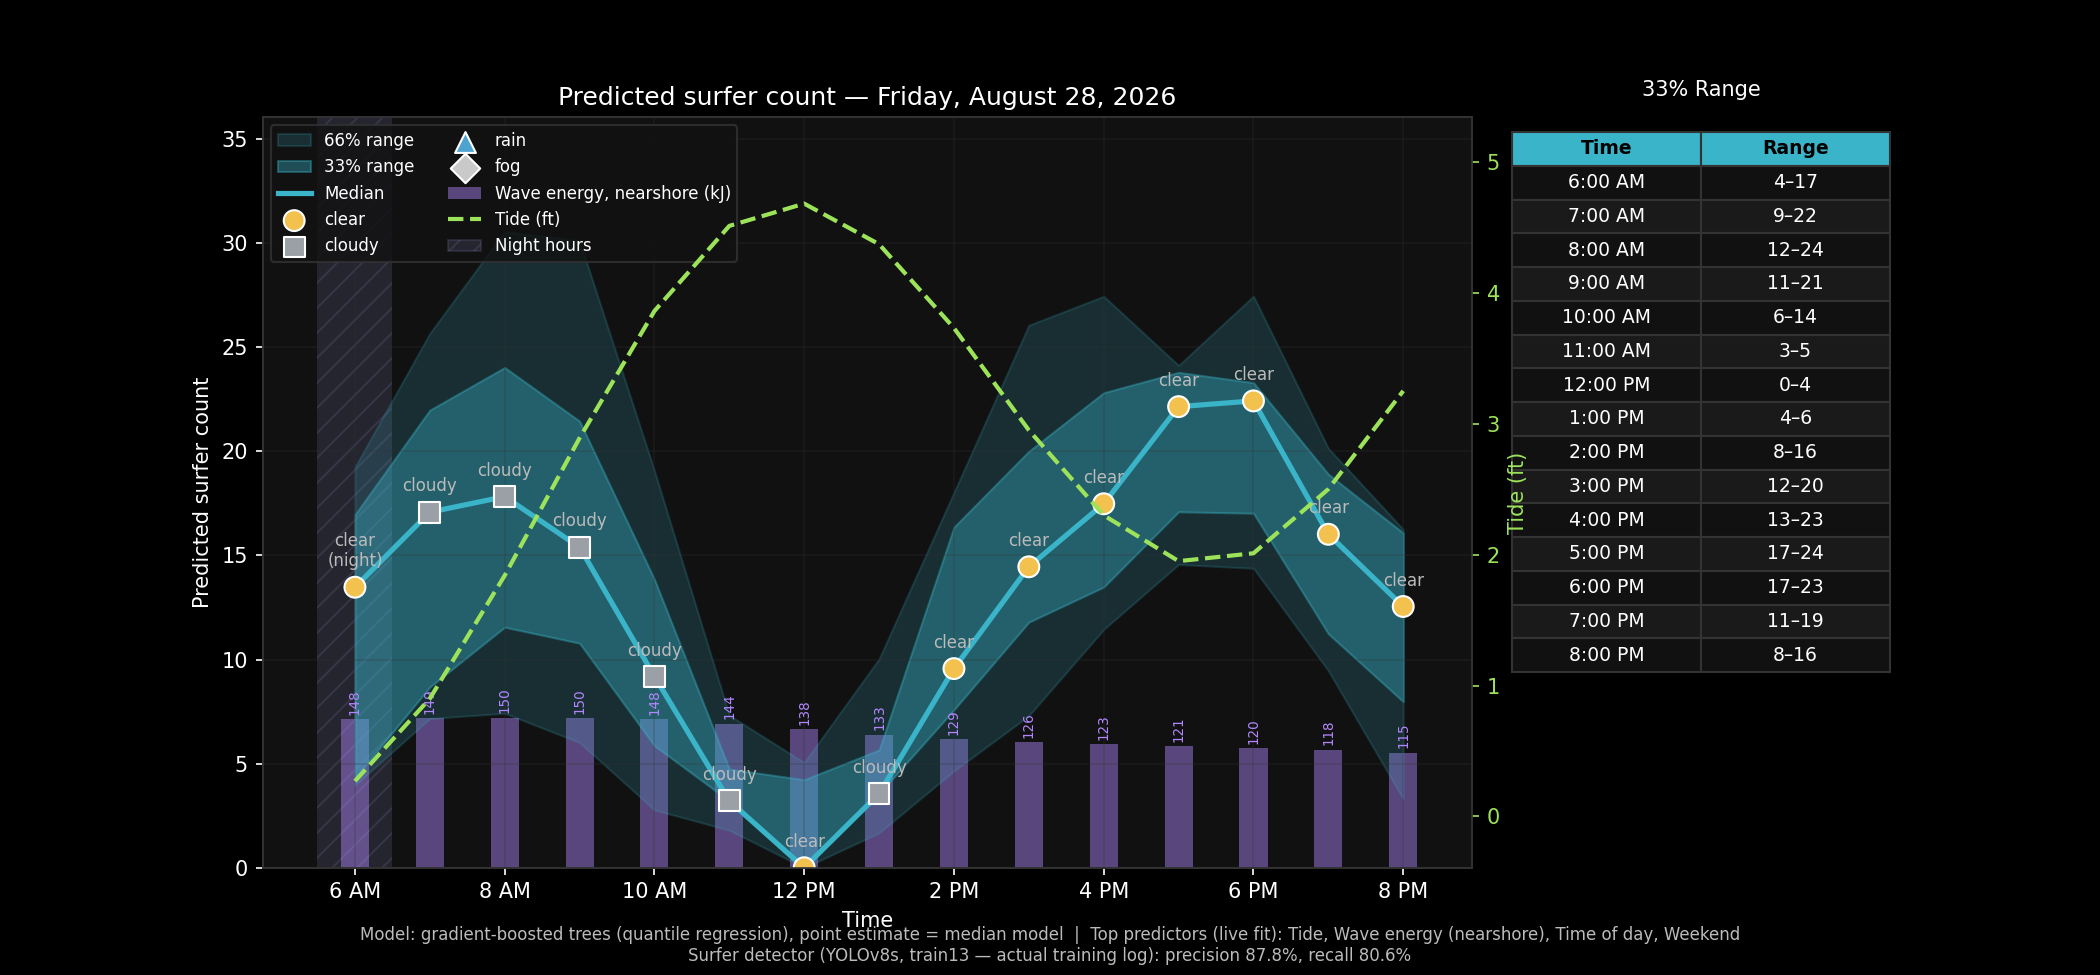
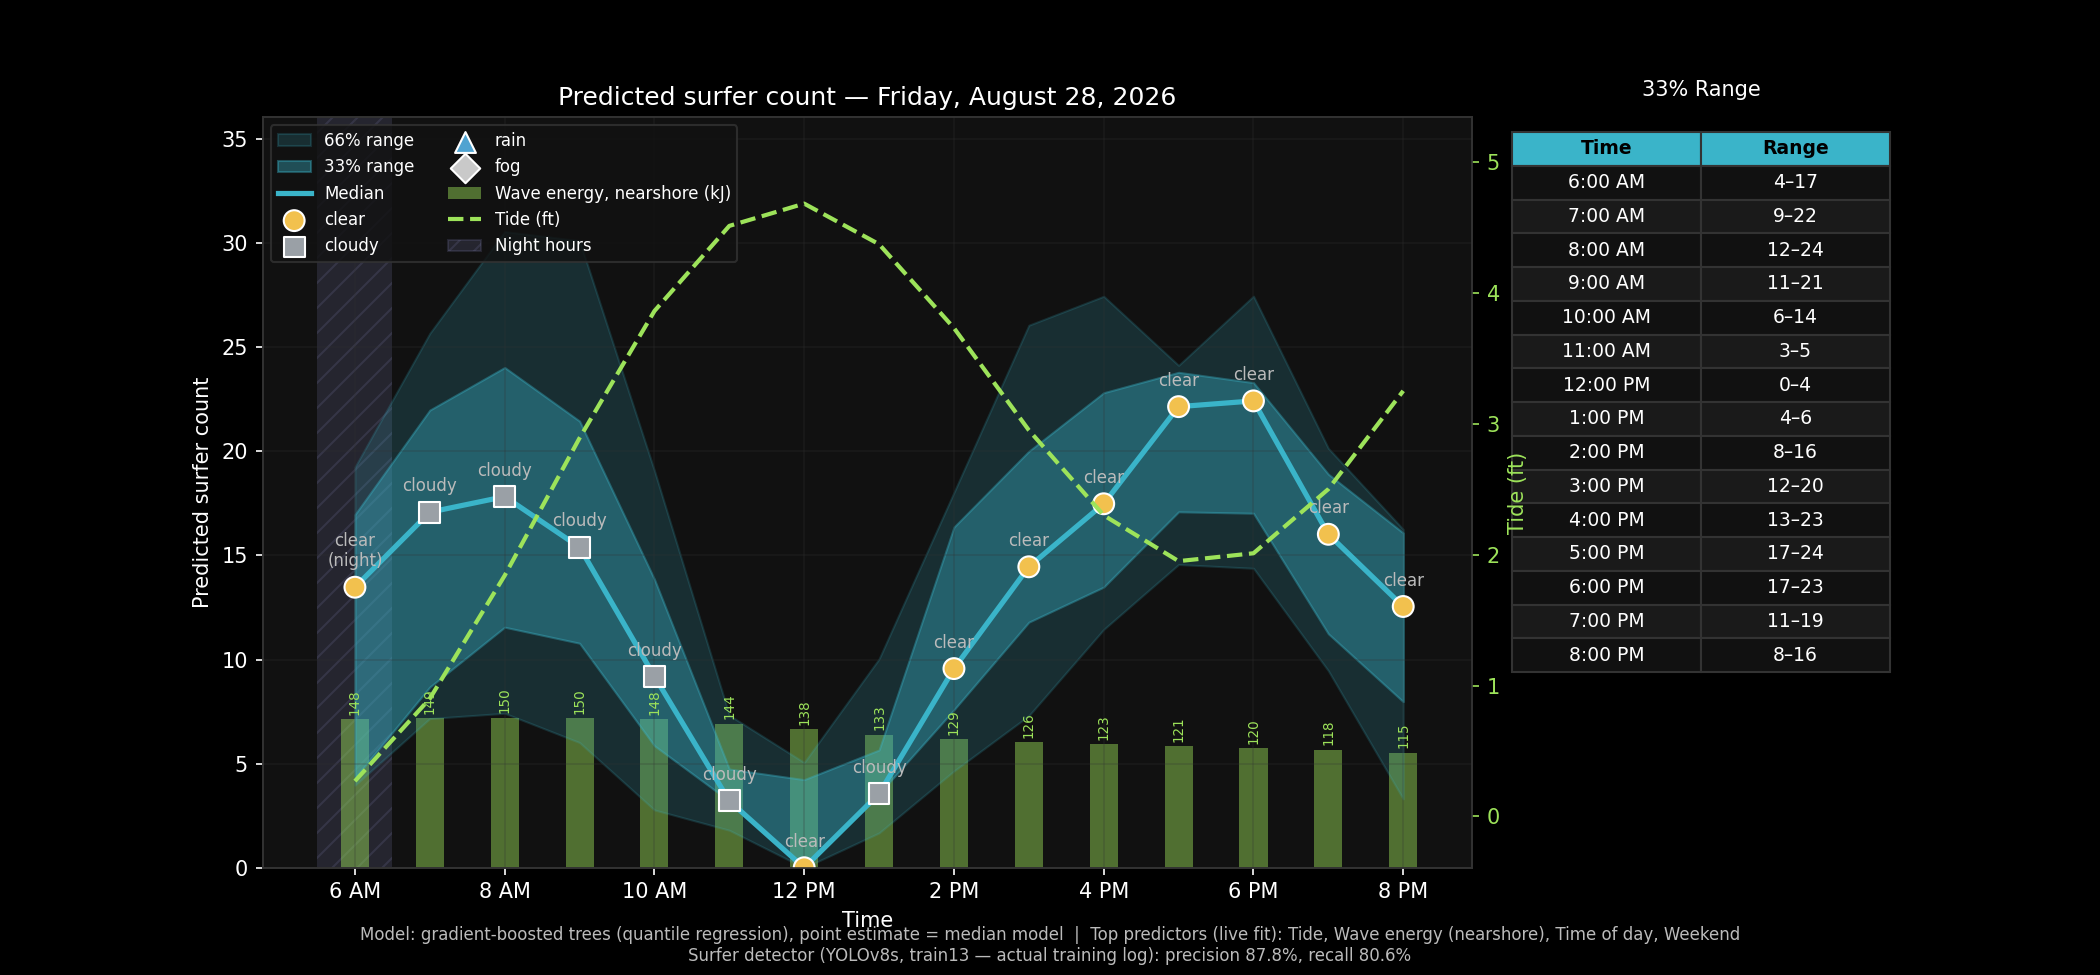
Wave-energy bars: purple -> lime green
Claude-Session: https://claude.ai/code/session_01C2GCpQELsJRUSZjSZDcA3i

Changed region(s): [[0.1548, 0.7385, 0.681, 0.8923], [0.2167, 0.1846, 0.2476, 0.2154]]

diff --git a/code/plot_daily_prediction.py b/code/plot_daily_prediction.py
@@ -79,8 +79,7 @@ GRID_COLOR = "#333333"
 TEXT_COLOR = "white"
 MUTED_TEXT = "#bbbbbb"
 AQUA = "#3ab4c9"      # primary — median line / quantile bands
-LIME = "#9de35a"      # tide line
-PURPLE = "#b388ff"    # wave-energy bars (complementary accent)
+LIME = "#9de35a"      # tide line, wave-energy bars
 CORAL = "#ff6f61"     # out-of-training-range warning hatch/labels
 NIGHT_COLOR = "#7a7aa8"  # night-hour shading
 READABLE_NAMES = {
@@ -179,11 +178,11 @@ def main():
     energy_max = d["energy_nearshore_kj"].max()
     energy_scale = (y_top * 0.20) / energy_max if energy_max > 0 else 0
     bar_heights = d["energy_nearshore_kj"] * energy_scale
-    ax.bar(d["hour"], bar_heights, width=bar_width, color=PURPLE, alpha=0.45,
+    ax.bar(d["hour"], bar_heights, width=bar_width, color=LIME, alpha=0.45,
            zorder=1, label="Wave energy, nearshore (kJ)")
     for x, h, val in zip(d["hour"], bar_heights, d["energy_nearshore_kj"]):
         ax.annotate(f"{val:.0f}", (x, h), textcoords="offset points", xytext=(0, 2),
-                    ha="center", fontsize=6.5, color=PURPLE, rotation=90, va="bottom")
+                    ha="center", fontsize=6.5, color=LIME, rotation=90, va="bottom")
 
     ax.fill_between(d["hour"], d["q17"], d["q83"], color=AQUA, alpha=0.18, label="66% range")
     ax.fill_between(d["hour"], d["q335"], d["q665"], color=AQUA, alpha=0.38, label="33% range")

diff --git a/README.md b/README.md
@@ -27,7 +27,7 @@ This project downloads short clips around daylight hours, extracts 3 cropped fra
 5. Averages the 3 per-frame counts and appends the result (plus the raw
    per-frame data) to `data/predictions.csv`.
 
-Runs entirely on a local machine via cron — no cloud VM involved. See
+Started project on a cloud VM, but then realized training and inference could be run locally for free for now. See
 [`HOW_IT_WORKS.md`](docs/HOW_IT_WORKS.md) for a full walkthrough of the
 detection pipeline and a glossary of terms, [`PROJECT_HISTORY.md`](docs/PROJECT_HISTORY.md)
 for how it was built and tuned over time, and [`PROJECT_FILES.md`](docs/PROJECT_FILES.md)
